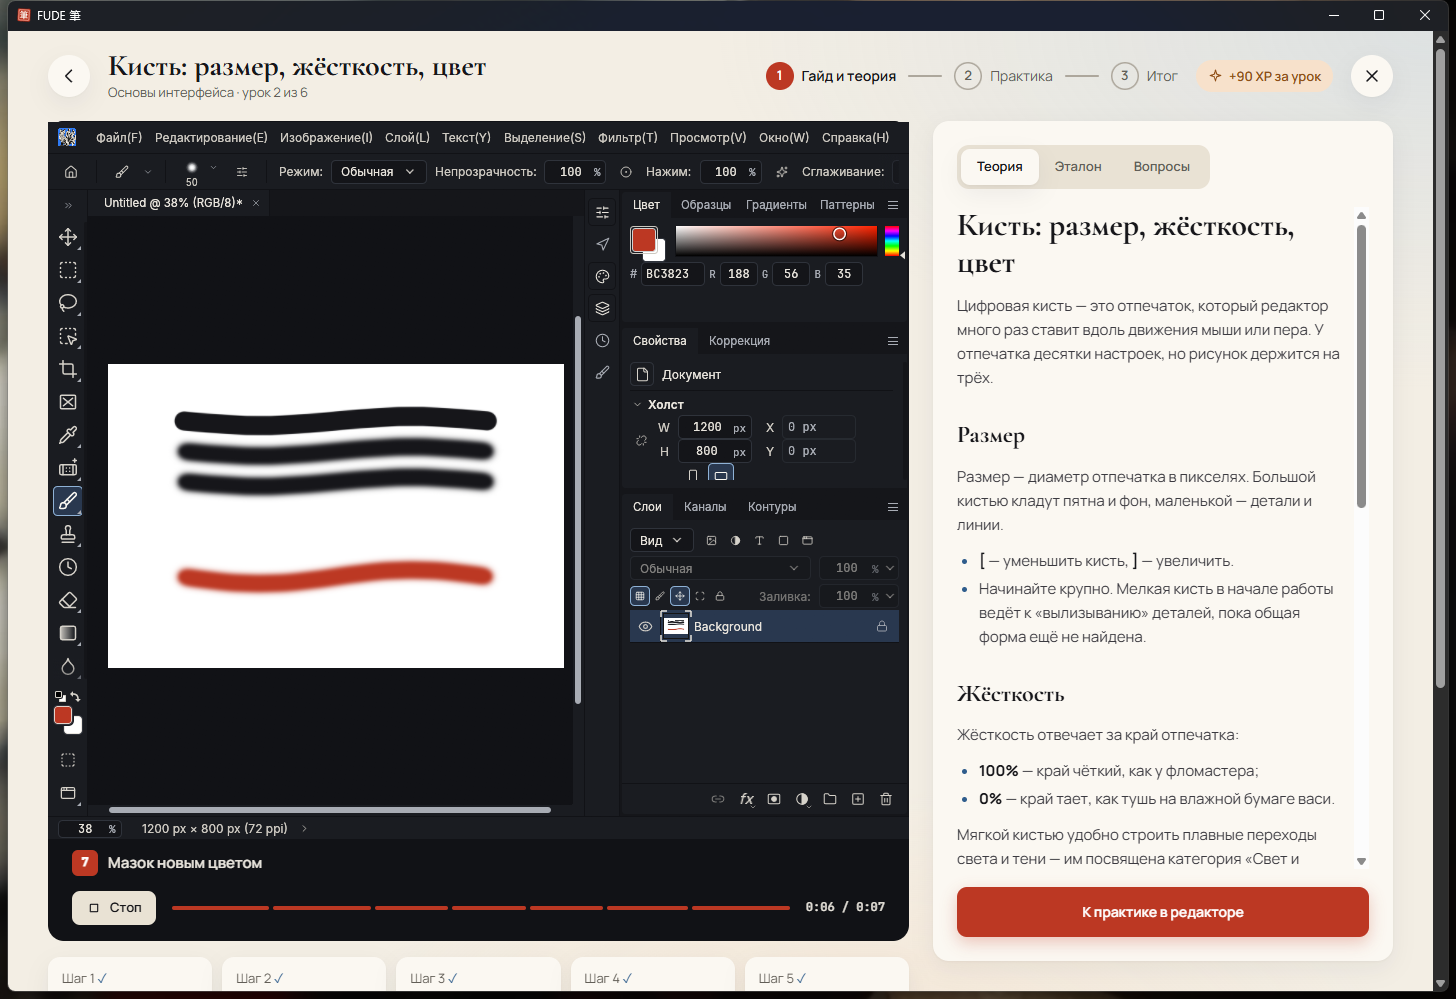
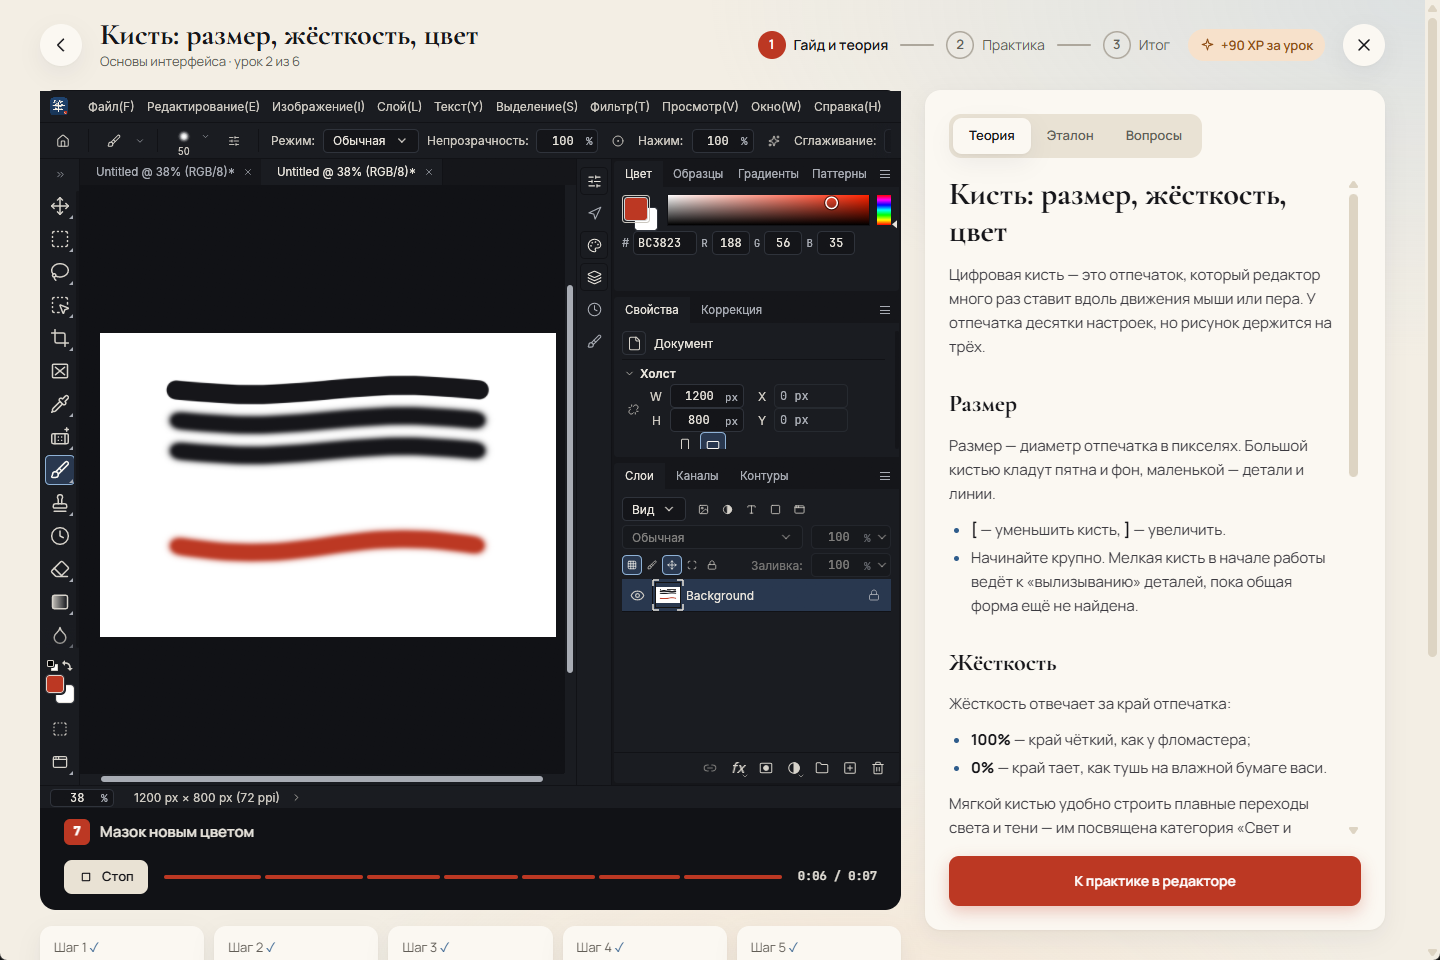
README: скриншоты гайда и практики на двух языках
Гайд и практика сняты заново в настоящем окне FUDE со встроенным
PhotoCraft: русский и английский интерфейс. README.en.md показывает
английские снимки.

Changed region(s): [[0.0, 0.0, 1.0, 1.0], [0.5625, 0.7812, 0.625, 0.8125]]

diff --git a/README.en.md b/README.en.md
@@ -11,8 +11,8 @@ A diploma project (4th year).
   <img src="design/app-home-dark-en.png" alt="Home in the dark «Sumi» theme" width="49%">
 </p>
 <p align="center">
-  <img src="design/app-guide.png" alt="Lesson: the guide draws in the editor embedded in the FUDE window (Russian interface)" width="49%">
-  <img src="design/app-practice.png" alt="Practice: the PhotoCraft editor inside the FUDE window, task steps and auto-check on the right (Russian interface)" width="49%">
+  <img src="design/app-guide-en.png" alt="Lesson: the guide draws in the editor embedded in the FUDE window" width="49%">
+  <img src="design/app-practice-en.png" alt="Practice: the PhotoCraft editor inside the FUDE window, task steps and auto-check on the right" width="49%">
 </p>
 <p align="center">
   <img src="design/app-lessons-en.png" alt="Lesson catalog by category" width="49%">
